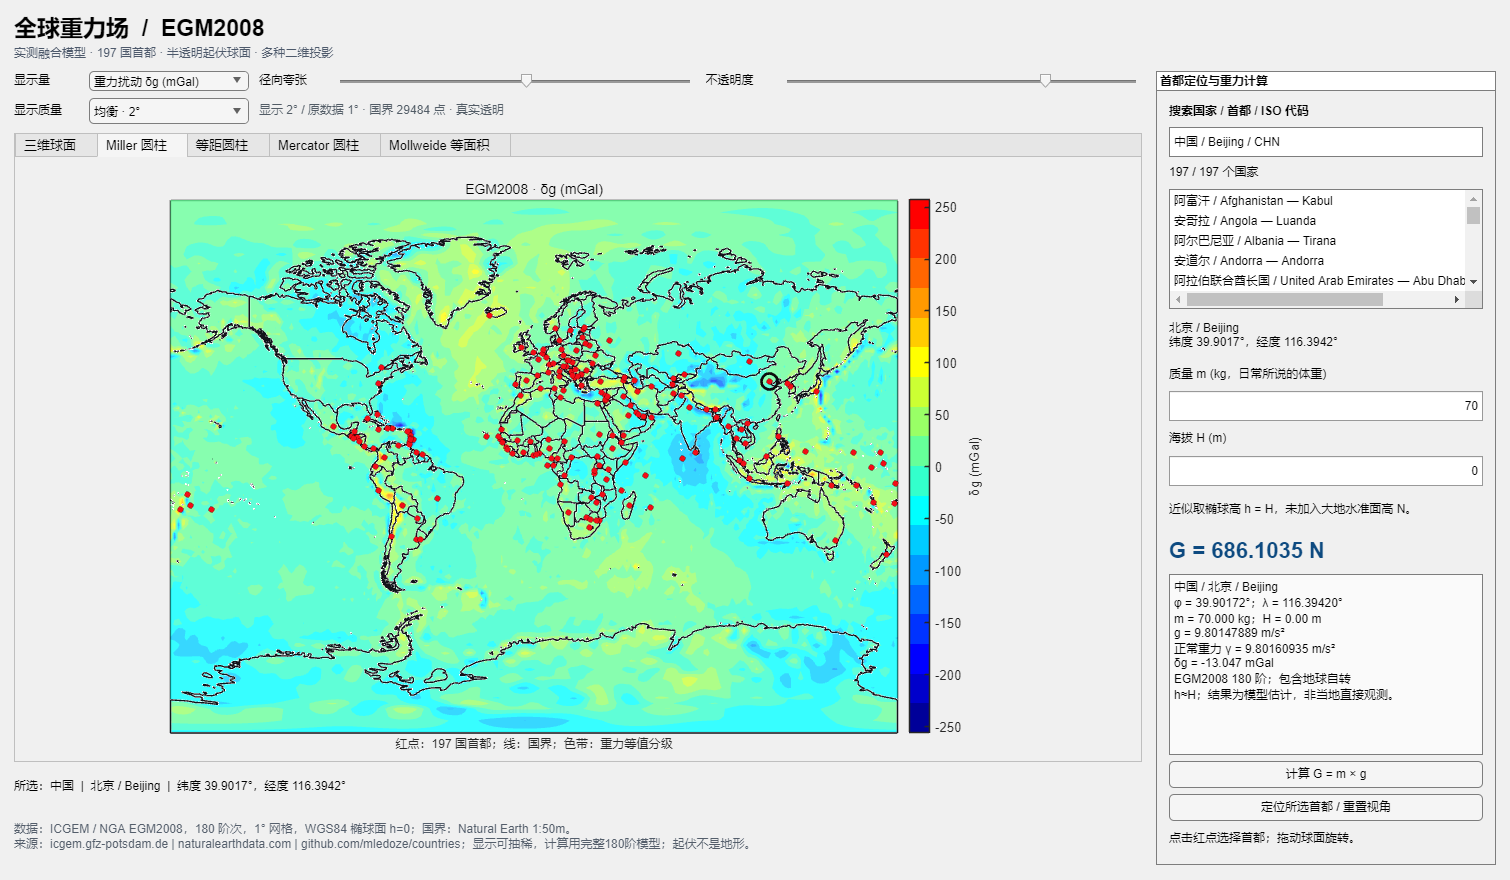
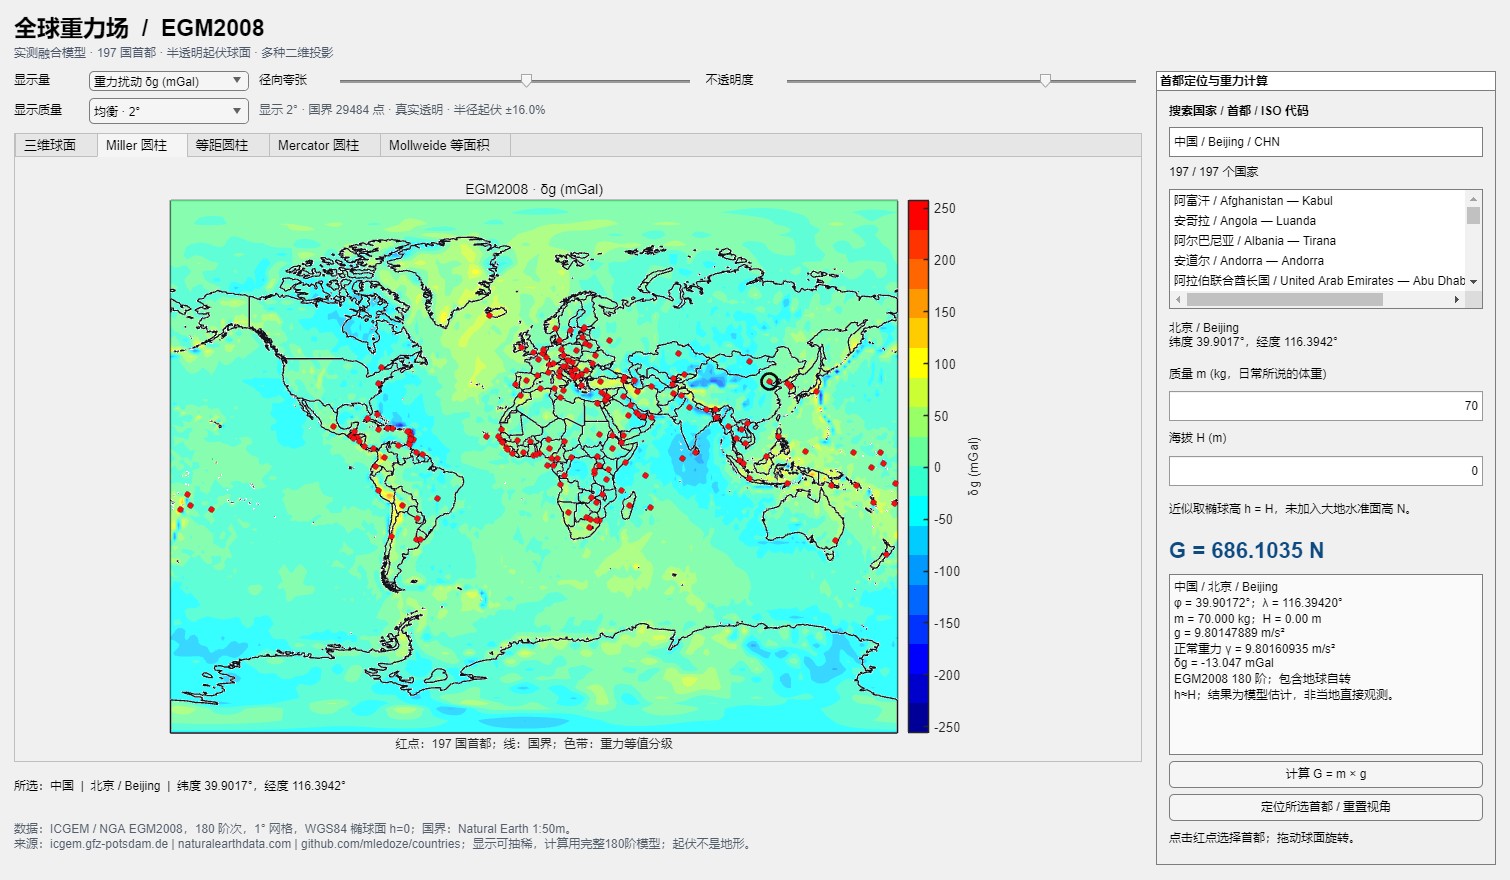
Fix globe rotation scale and cap total gravity radial exaggeration

Changed region(s): [[0.5914, 0.2148, 0.6536, 0.8284], [0.2179, 0.1227, 0.3424, 0.1534]]

diff --git a/matlab_gravity_app/gravity_field_app.m b/matlab_gravity_app/gravity_field_app.m
@@ -194,7 +194,16 @@ updateCountry(); refreshPlot(); calculate();
         tabs.SelectedTab=tabList(1);
         currentView=[countries(selected).longitude+90 countries(selected).latitude];
         refreshPlot();
-        fitCamera(axesList(1),1+relief.Value+0.035);
+        fitCamera(axesList(1),1+radialAmplitude()+0.035);
+    end
+    function amplitude=radialAmplitude()
+        amplitude=relief.Value;
+        if strcmp(mode.Value,'gravity')
+            % Total g has a strong smooth latitude gradient. Apply only 10%
+            % of the slider amplitude (at most +/-3%) to retain a globe.
+            % The radial ordering and colors still use true total gravity.
+            amplitude=0.1*amplitude;
+        end
     end
     function D=getRenderData()
         key=[quality.Value '_' mode.Value];
@@ -270,19 +279,29 @@ updateCountry(); refreshPlot(); calculate();
         updateMarker();
         transparency='真实透明';
         if strcmp(D.quality,'fast'), transparency='预合成透明（减轻显卡负担）'; end
-        displayNote.Text=sprintf('显示 %d° / 原数据 1° · 国界 %d 点 · %s', ...
-            D.stride,D.stats.displayBoundaryVertices,transparency);
+        displayNote.Text=sprintf('显示 %d° · 国界 %d 点 · %s · 半径起伏 ±%.1f%%', ...
+            D.stride,D.stats.displayBoundaryVertices,transparency,100*radialAmplitude());
+        if strcmp(mode.Value,'gravity')
+            relief.Tooltip='总重力：实际半径幅度为滑块值的10%，最大±3%；颜色与半径仍按真实g映射。';
+        else
+            relief.Tooltip='重力扰动：实际半径幅度等于滑块值，最大±30%；用于夸张地区差异。';
+        end
         stats=D.stats; stats.quality=D.quality; stats.key=D.key;
         stats.projection=scene.projection; stats.sourceGridSpacing=1;
         stats.displayGridSpacing=D.stride;
+        stats.radialAmplitude=radialAmplitude();
+        stats.fitRadius=1+stats.radialAmplitude+0.035;
         setappdata(fig,'RenderStats',stats);
     end
     function scene=createScene(index,D)
         a=axesList(index); p=projections{index}; hold(a,'on');
         a.FontSize=11; a.Color=[0.98 0.99 1];
         scene=struct('axes',a,'projection',p,'key','', ...
-            'relief',NaN,'opacity',NaN,'fitRadius',1+relief.Value+0.035);
+            'relief',NaN,'opacity',NaN,'fitRadius',1+radialAmplitude()+0.035);
         if strcmp(p,'globe')
+            % Native zoom narrows XYZ limits; clip at the screen rectangle
+            % instead of cutting away the front of the sphere at those limits.
+            a.ClippingStyle='rectangle';
             scene.core=surf(a,zeros(2),zeros(2),zeros(2), ...
                 'FaceColor',[0.78 0.82 0.86],'EdgeColor','none', ...
                 'HitTest','off','PickableParts','none','Tag','OpaqueCore');
@@ -333,29 +352,33 @@ updateCountry(); refreshPlot(); calculate();
     function scene=updateGeometry(scene,D)
         a=scene.axes; p=scene.projection;
         if strcmp(p,'globe')
-            r=1+relief.Value*D.normalized;
+            amplitude=radialAmplitude();
+            r=1+amplitude*D.normalized;
             set(scene.field,'XData',D.gx.*r,'YData',D.gy.*r,'ZData',D.gz.*r,'CData',D.values);
             if strcmp(D.quality,'fast')
                 set(scene.core,'XData',zeros(2),'YData',zeros(2),'ZData',zeros(2),'Visible','off');
             else
                 set(scene.core,'XData',D.gx.*(r-0.003),'YData',D.gy.*(r-0.003),'ZData',D.gz.*(r-0.003));
             end
-            r=1+relief.Value*D.bn+0.009;
+            r=1+amplitude*D.bn+0.009;
             set(scene.boundaries,'XData',D.bx.*r,'YData',D.by.*r,'ZData',D.bz.*r);
             set(scene.halo,'XData',D.bx.*r,'YData',D.by.*r,'ZData',D.bz.*r);
-            r=1+relief.Value*D.tn+0.004;
+            r=1+amplitude*D.tn+0.004;
             set(scene.contours,'XData',D.tx.*r,'YData',D.ty.*r,'ZData',D.tz.*r);
-            r=1+relief.Value*D.cn+0.016;
+            r=1+amplitude*D.cn+0.016;
             x=D.cx.*r; y=D.cy.*r; z=D.cz.*r;
             set(scene.capitals,'XData',x,'YData',y,'ZData',z);
             scene.capitalXYZ=[x(:) y(:) z(:)];
-            rlim=1+relief.Value+0.035;
+            rlim=1+amplitude+0.035;
             if rlim~=scene.fitRadius
-                offset=a.CameraPosition-a.CameraTarget;
-                a.CameraPosition=a.CameraTarget+offset*(rlim/scene.fitRadius);
+                % Native zoom changes limits. Scale the current limits so
+                % relief updates preserve that zoom, then keep the same
+                % automatic camera model used by native rotation.
+                scale=rlim/scene.fitRadius;
+                a.XLim=a.XLim*scale; a.YLim=a.YLim*scale; a.ZLim=a.ZLim*scale;
+                a.CameraTargetMode='auto'; a.CameraPositionMode='auto';
                 scene.fitRadius=rlim;
             end
-            xlim(a,[-rlim rlim]); ylim(a,[-rlim rlim]); zlim(a,[-rlim rlim]);
         else
             valid=true(size(D.lat));
             if strcmp(p,'mercator'), valid=abs(D.lat)<=85; end
@@ -374,12 +397,16 @@ updateCountry(); refreshPlot(); calculate();
     end
     function fitCamera(a,rlim)
         a.Projection='orthographic'; a.DataAspectRatio=[1 1 1]; a.PlotBoxAspectRatio=[1 1 1];
-        a.CameraTarget=[0 0 0];
-        az=currentView(1); el=currentView(2);
-        direction=[sind(az)*cosd(el),-cosd(az)*cosd(el),sind(el)];
-        a.CameraPosition=direction*(rlim/tand(10));
-        a.CameraUpVector=[0 0 1]; a.CameraViewAngle=20;
         xlim(a,[-rlim rlim]); ylim(a,[-rlim rlim]); zlim(a,[-rlim rlim]);
+        % Native rotation writes View and restores the automatic camera
+        % distance. Fit with that same distance so the first drag cannot
+        % silently zoom out. Change the view angle to retain the large globe.
+        view(a,currentView);
+        a.CameraTarget=[0 0 0];
+        a.CameraPositionMode='auto';
+        distance=norm(a.CameraPosition-a.CameraTarget);
+        a.CameraUpVector=[0 0 1];
+        a.CameraViewAngle=2*atand(rlim/distance);
         axis(a,'vis3d');
     end
 

diff --git a/matlab_gravity_app/tests/test_gravity_ui.m b/matlab_gravity_app/tests/test_gravity_ui.m
@@ -123,6 +123,49 @@ verifyEqual(testCase,fig.UserData.g,state0.g,'AbsTol',1e-14);
 mode.Value='disturbance'; invoke(mode,'ValueChangedFcn');
 end
 
+function testTotalGravityRetainsNearSphericalShape(testCase)
+fig=testCase.TestData.figure; showTab(fig,'globe');
+a=plotAxes(fig,'globe'); mode=findobj(fig,'Tag','FieldMode');
+quality=findobj(fig,'Tag','RenderQuality'); relief=findobj(fig,'Tag','Relief');
+baseline=fig.UserData;
+mode.Value='gravity'; invoke(mode,'ValueChangedFcn');
+for profile={'fast','balanced','fine'}
+    quality.Value=profile{1}; invoke(quality,'ValueChangedFcn');
+    surface=findobj(a,'Tag','GravitySurface'); originalColors=surface.CData;
+    for strength=[0 0.16 0.3]
+        relief.Value=strength; invoke(relief,'ValueChangedFcn');
+        radius=sqrt(surface.XData.^2+surface.YData.^2+surface.ZData.^2);
+        verifyGreaterThanOrEqual(testCase,min(radius(:)),0.97-1e-12);
+        verifyLessThanOrEqual(testCase,max(radius(:)),1.03+1e-12);
+        widths=[max(surface.XData(:))-min(surface.XData(:)), ...
+            max(surface.YData(:))-min(surface.YData(:)),max(surface.ZData(:))-min(surface.ZData(:))];
+        verifyLessThan(testCase,max(widths)/min(widths),1.07);
+        if strength==0
+            verifyEqual(testCase,radius,ones(size(radius)),'AbsTol',1e-12);
+        else
+            verifyGreaterThan(testCase,max(radius(:))-min(radius(:)),0.02);
+            [~,order]=sort(surface.CData(:));
+            verifyGreaterThanOrEqual(testCase,min(diff(radius(order))),-1e-12);
+        end
+        verifyEqual(testCase,surface.CData,originalColors);
+        verifyEqual(testCase,fig.UserData.g,baseline.g);
+        verifyEqual(testCase,fig.UserData.force,baseline.force);
+        verifyEqual(testCase,a.DataAspectRatio,[1 1 1]);
+        for overlay={'CountryBoundaries',0.009;'CapitalMarkers',0.016;'GravityContours',0.004}'
+            item=findobj(a,'Tag',overlay{1});
+            overlayRadius=sqrt(item.XData.^2+item.YData.^2+item.ZData.^2)-overlay{2};
+            overlayRadius=overlayRadius(isfinite(overlayRadius));
+            verifyGreaterThanOrEqual(testCase,min(overlayRadius),0.97-1e-12);
+            verifyLessThanOrEqual(testCase,max(overlayRadius),1.03+1e-12);
+        end
+        a.View=a.View+[30 5]; drawnow;
+        verifyEqual(testCase,sqrt(surface.XData.^2+surface.YData.^2+surface.ZData.^2),radius,'AbsTol',1e-12);
+    end
+end
+relief.Value=0.16; mode.Value='disturbance'; quality.Value='balanced';
+invoke(mode,'ValueChangedFcn');
+end
+
 function testAllProjectionTabsRender(testCase)
 fig=testCase.TestData.figure;
 names={'globe','miller','equirectangular','mercator','mollweide'};
@@ -186,6 +229,73 @@ verifyGreaterThan(testCase,counts(2),counts(1));
 verifyEqual(testCase,counts(3),181*361);
 verifyLessThan(testCase,counts(2),0.27*counts(3));
 dropdown.Value='balanced'; invoke(dropdown,'ValueChangedFcn');
+end
+
+function testRotationPreservesGlobeScaleAndZoom(testCase)
+fig=testCase.TestData.figure; showTab(fig,'globe');
+a=plotAxes(fig,'globe'); dropdown=findobj(fig,'Tag','RenderQuality');
+focus=findobj(fig,'Text','定位所选首都 / 重置视角');
+for profile={'fast','balanced','fine'}
+    dropdown.Value=profile{1}; invoke(dropdown,'ValueChangedFcn');
+    for zoomFactor=[1 1.35]
+        invoke(focus,'ButtonPushedFcn');
+        camzoom(a,zoomFactor); drawnow;
+        before=cameraSpan(a); originalView=a.View;
+        for offset=[30 10;-95 -20;150 35]'
+            % Native rotate interactions update View, which resets the
+            % position/target/up-vector modes to automatic in R2022b.
+            a.View=originalView+offset'; drawnow;
+            verifyEqual(testCase,cameraSpan(a),before,'RelTol',1e-10);
+        end
+        camorbit(a,20,10,'data',[0 0 1]); drawnow;
+        verifyEqual(testCase,cameraSpan(a),before,'RelTol',1e-10);
+        showTab(fig,'miller'); showTab(fig,'globe');
+        verifyEqual(testCase,cameraSpan(a),before,'RelTol',1e-10);
+    end
+end
+dropdown.Value='balanced'; invoke(dropdown,'ValueChangedFcn');
+invoke(focus,'ButtonPushedFcn');
+end
+
+function span=cameraSpan(a)
+% Orthographic camera's visible half-span in data units. A change means
+% unwanted apparent zoom even when CameraViewAngle itself stays unchanged.
+span=norm(a.CameraPosition-a.CameraTarget)*tand(a.CameraViewAngle/2);
+end
+
+function testNativeLimitsZoomSurvivesReliefAndRotation(testCase)
+fig=testCase.TestData.figure; showTab(fig,'globe');
+a=plotAxes(fig,'globe'); dropdown=findobj(fig,'Tag','RenderQuality');
+mode=findobj(fig,'Tag','FieldMode'); relief=findobj(fig,'Tag','Relief');
+focus=findobj(fig,'Text','定位所选首都 / 重置视角');
+invoke(focus,'ButtonPushedFcn');
+% R2022b toolbar/wheel zoom changes the limits, unlike camzoom.
+a.XLim=a.XLim/1.4; a.YLim=a.YLim/1.4; a.ZLim=a.ZLim/1.4;
+a.CameraPositionMode='auto'; a.CameraTargetMode='auto'; drawnow;
+relativeSpan=cameraSpan(a)/displayRadius(fig);
+for profile={'fast','balanced','fine'}
+    dropdown.Value=profile{1}; invoke(dropdown,'ValueChangedFcn');
+    verifyEqual(testCase,cameraSpan(a)/displayRadius(fig),relativeSpan,'RelTol',1e-10);
+    for field={'gravity','disturbance'}
+        mode.Value=field{1}; invoke(mode,'ValueChangedFcn');
+        verifyEqual(testCase,cameraSpan(a)/displayRadius(fig),relativeSpan,'RelTol',1e-10);
+        for value=[0 0.3 0.16]
+            relief.Value=value; invoke(relief,'ValueChangedFcn');
+            before=cameraSpan(a);
+            verifyEqual(testCase,before/displayRadius(fig),relativeSpan,'RelTol',1e-10);
+            a.View=a.View+[25 -5]; drawnow;
+            verifyEqual(testCase,cameraSpan(a),before,'RelTol',1e-10);
+        end
+    end
+end
+dropdown.Value='balanced'; invoke(dropdown,'ValueChangedFcn');
+invoke(focus,'ButtonPushedFcn');
+verifyEqual(testCase,cameraSpan(a),displayRadius(fig),'RelTol',1e-10);
+end
+
+function radius=displayRadius(fig)
+stats=getappdata(fig,'RenderStats');
+radius=stats.fitRadius;
 end
 
 function showTab(fig,name)

diff --git a/matlab_gravity_app/VALIDATION.md b/matlab_gravity_app/VALIDATION.md
@@ -2,7 +2,7 @@
 
 验证日期：2026-09-27。运行环境：Windows，MATLAB R2022b Update 10。
 
-渲染优化后运行 `runtests('tests')`：**21 项通过，0 失败，0 跳过**。
+渲染优化、旋转尺寸及总重力形状修复后运行 `runtests('tests')`：**24 项通过，0 失败，0 跳过**。
 
 - EGM2008 官方压缩包 SHA-256 与系数记录数检查通过。
 - 五个位置的球谐重力与独立 SciPy 归一化 Legendre 势函数差分结果一致，容差 `2e-8 m/s²`。
@@ -14,6 +14,10 @@
 - 验证流畅、均衡、精细三档与五个视图的组合，首都数均为 197，`g` 与 `G` 不因显示档位变化。
 - 精细档网格数值及国界顶点与源数据完全一致；抽稀档只取原网格样本，保留边界片段、小岛、闭合端点及经度断点。
 - 调透明度和切回已访问视图时，曲面与首都图形句柄保持不变，旋转角度和相机缩放保持不变。
+- 旋转尺寸回归先在旧版复现失败，再在修复后通过：三档质量、多个方位/仰角、`camzoom` 后旋转及视图切换，投影尺度保持一致。
+- 原生缩放会修改 XYZ limits；另行覆盖这种缩放后切换质量、显示量、起伏两端值再旋转，验证缩放比例不丢失，定位重置可恢复初始占比。
+- 总重力形状回归覆盖三档质量与滑块 0、0.16、0.3：半径在 0.97–1.03 内，XYZ 最大/最小轴长比小于 1.07，半径随真实 g 单调增加。国界、等值线、首都同步使用对应有效幅度；颜色数据与计算器结果不变。
+- 已导出并检查三档总重力在默认及最大夸张下的实际界面；均衡档轴长比由默认旧映射约 1.36 降为 1.0313，最大档约 1.0594。各档的数值记录见 `docs/benchmarks/total_gravity_shape.json`，流畅档截图见 `docs/total_gravity_preview.png`。
 - 已在可见窗口中对原版和三档优化模式执行性能基准；方法、时间和原始记录见 `PERFORMANCE.md`。
 - 所有列入 `data/DATA_PROVENANCE.md` 的文件 SHA-256 与当前文件相符。
 
@@ -21,4 +25,4 @@
 
 197 国口径已于 2026-09-27 确认为 193 个联合国成员国 + 梵蒂冈、巴勒斯坦、库克群岛、纽埃。程序默认使用 `CountrySet='un197'`，直接启动界面；`'proposed197'` 保留为兼容别名。发布前已使用默认参数重新运行全部 14 项测试，并验证 VAT/PSE/COK/NIU；ISO 代码现在优先精确匹配，避免被名称中的字母片段误匹配。
 
-界面测试通过代码调用真实 MATLAB 控件回调和成图；未声称进行人工鼠标逐点测试。结果是观测融合模型估计，不能代替现场重力仪测量。模型、阶次、网格间距与海拔近似都在界面和 README 中说明。
+界面自动测试通过代码调用真实 MATLAB 控件回调和成图。旋转修复另外使用桌面鼠标自动化操作原生旋转工具和滚轮缩放，记录相机距离、视角、坐标轴范围及投影尺度。实际拖动中投影半幅保持在 1.195，原生缩放后为 1.0863636364；这不是对所有控件进行人工逐点测试的声明。结果是观测融合模型估计，不能代替现场重力仪测量。模型、阶次、网格间距与海拔近似都在界面和 README 中说明。

diff --git a/matlab_gravity_app/PERFORMANCE.md b/matlab_gravity_app/PERFORMANCE.md
@@ -2,7 +2,9 @@
 
 本次优化针对密集透明曲面、冗余国界线，以及参数变化时整幅图重建造成的停顿。修改只作用于显示层；`gravity_at_location.m`、EGM2008 系数和原始 1° 网格保持不变。
 
-## 实测结果
+## 上一轮渲染优化实测（d55b774）
+
+以下记录来自旋转尺寸修复之前的版本。该版本在旋转后会把球体缩小，因此自动旋转吞吐量受画面占比变化影响，不能直接代表修复后保持大球面时的速度。当前版本已修复这一问题；可用文末脚本重新测量。
 
 2026-09-27，在 MATLAB R2022b Update 10、RTX 4070 Laptop GPU 硬件 OpenGL 上，用可见的 1510×880 窗口测量。下表为含 `drawnow` 的操作耗时中位数，越小越好：
 
@@ -14,7 +16,7 @@
 | 返回已访问球面 | 575 ms | 19 ms | 21 ms | 22 ms |
 | 返回已访问 Miller | 611 ms | 54 ms | 19 ms | 135 ms |
 
-自动相机旋转重绘吞吐量分别为 **7.64、15.24、29.50、8.90 次/秒**。这不是保证的鼠标交互 FPS。均衡档调透明度约快 6.7 倍；流畅档自动重绘吞吐量约为原版的 3.86 倍。
+历史自动相机旋转重绘吞吐量分别为 **7.64、15.24、29.50、8.90 次/秒**，仅作为原始记录保留，不作为当前版本的帧率或加速承诺。该轮均衡档调透明度约快 6.7 倍。
 
 | 几何数据 | 原版 | 均衡 | 流畅 | 精细 |
 |---|---:|---:|---:|---:|
@@ -33,6 +35,8 @@
 3. **显示细节分档**：流畅约 4°、均衡约 2°、精细原始 1°。源网格不覆盖；色标范围及径向归一化仍由完整源场确定。
 4. **简化国界**：使用有容差的折线简化，并限制长线段长度，使线条仍贴合曲面。保留每个独立片段、小岛、闭合环端点和经度接缝；全部 197 个首都继续绘制。
 5. **流畅档免透明排序**：使用单层不透明曲面，将 `jet` 颜色按不透明度预合成到原灰色基底，并隐藏重复底层及白色描边。其视觉不透明度可调，但不执行真实的透明面排序；均衡、精细保留真实半透明。
+6. **旋转尺寸稳定**：初始化与原生旋转使用相同的自动相机距离，以视角控制球面占比。质量、显示量和起伏变化保留用户缩放；放大时按二维矩形裁切，避免球体前侧被三维坐标框切开。
+7. **总重力起伏限幅**：总重力模式应用滑块幅度的 10%，默认半径偏移 ±1.6%、最大 ±3%，避免平滑的大尺度梯度被夸张成胶囊形。国界、首都、等值线与相机包络采用同一幅度，真实 g 数据和着色范围不变。
 
 ## 使用
 
